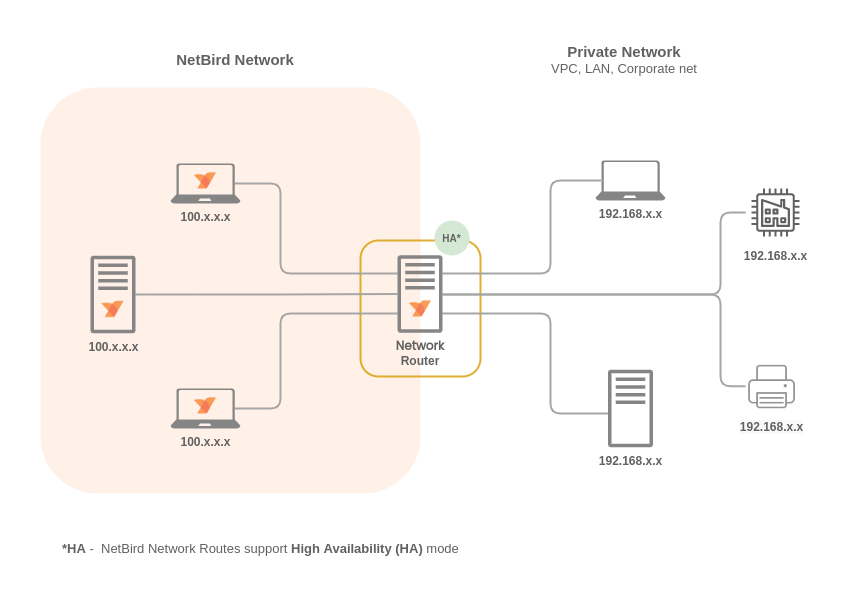
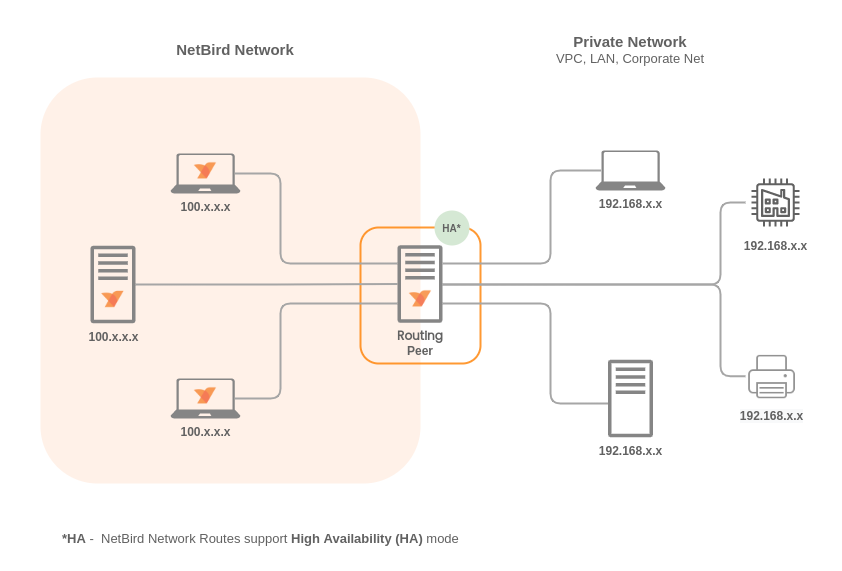
Routes without masquerade and resizes

diff --git a/docs/how-to-guides/routes.md b/docs/how-to-guides/routes.md
@@ -12,14 +12,14 @@ NetBird provides fast and reliable end-to-end encryption between peers in your n
 In these cases, you can configure network routes assigning routing peers to connect existing infrastructure. Routing peers will forward packets between your NetBird peers and your other networks; they can masquerade traffic going to your data centers or embedded devices, reducing the need for external route configuration and agent installation.
 
 <p align="center">
-    <img src="/docs/img/how-to-guides/netbird-network-routes.png" alt="high-level-dia" width="800"  />
+    <img src="/docs/img/how-to-guides/netbird-network-routes.png" alt="high-level-dia"  />
 </p>
 
 ## Concepts
 ### Network routes
 A network route describes the network you want to connect with your NetBird peers. It has an identifier, a network range, a routing peer, and some parameters available for managing priority and masquerading.
 :::info
-Network routes is available for NetBird v0.9.0 or later.
+Network routes is available for NetBird [v0.9.0](https://github.com/netbirdio/netbird/releases) or later.
 :::
 ### Network identifiers and ranges
 Network identifiers are names for each network you want to route traffic from your peers, and ranges are IP ranges declared in CIDR notation which refers to an external network. The combination of identifiers and these ranges makes a single network.
@@ -39,11 +39,12 @@ If you don't enable this option, you must configure a route to your NetBird netw
 Metric defines prioritization when choosing the main routing peer in a high availability network. Lower metrics have higher priority.
 
 ## Managing network routes
-The configuration and management of network routes are done through the management dashboard. There is no need to run any configuration commands on your peers.
+A network route describes a network you want to connect with your NetBird peers. It has an identifier, a network range, a routing peer, and some parameters available for managing priority and masquerading.
+
 ### Creating a network route
 After accessing the `Network routes` tab, you can click on the `Add Route` button to create a new route. That will open a route configuration screen where you can add the information about the network you want to route:
 <p align="center">
-    <img src="/docs/img/how-to-guides/netbird-network-routes-add-button.png" alt="high-level-dia" width="600" style={{boxShadow: '0 4px 8px 0 rgba(0, 0, 0, 0.2), 0 6px 20px 0 rgba(0, 0, 0, 0.19)'}} />
+    <img src="/docs/img/how-to-guides/netbird-network-routes-add-button.png" alt="high-level-dia" style={{boxShadow: '0 4px 8px 0 rgba(0, 0, 0, 0.2), 0 6px 20px 0 rgba(0, 0, 0, 0.19)'}} />
 </p>
 
 Now you can enter the details for your route:
@@ -60,7 +61,7 @@ In the example above, we are creating a route with the following information:
 
 Once you are done filling in the route information, you can click on the `create` button to save your new route.
 <p align="center">
-    <img src="/docs/img/how-to-guides/netbird-network-routes-saved-new.png" alt="high-level-dia" width="600" style={{boxShadow: '0 4px 8px 0 rgba(0, 0, 0, 0.2), 0 6px 20px 0 rgba(0, 0, 0, 0.19)'}} />
+    <img src="/docs/img/how-to-guides/netbird-network-routes-saved-new.png" alt="high-level-dia" style={{boxShadow: '0 4px 8px 0 rgba(0, 0, 0, 0.2), 0 6px 20px 0 rgba(0, 0, 0, 0.19)'}} />
 </p>
 Done! Now every peer connected to your routing peer will be able to send traffic to your external network.
 
@@ -81,9 +82,14 @@ So if we would like to enable high availability for the route created in the pre
 This way, nodes connected to both peer `aws-nb-europe-router-az-a` and peer `aws-nb-europe-router-az-b` would have a highly available connection with the network `172.31.0.0/16`.
 
 <p align="center">
-    <img src="/docs/img/how-to-guides/netbird-network-routes-saved-new-ha.png" alt="high-level-dia" width="600" style={{boxShadow: '0 4px 8px 0 rgba(0, 0, 0, 0.2), 0 6px 20px 0 rgba(0, 0, 0, 0.19)'}} />
+    <img src="/docs/img/how-to-guides/netbird-network-routes-saved-new-ha.png" alt="high-level-dia" style={{boxShadow: '0 4px 8px 0 rgba(0, 0, 0, 0.2), 0 6px 20px 0 rgba(0, 0, 0, 0.19)'}} />
 </p>
 
 :::info
 Currently, there is no limitation in the number of routes that form a highly available route. Each connected peer will pick one routing peer to use as the router for a network; this decision is based on metric prioritization and connection attributes like direct or relayed connections.
 :::
+
+### Routes without masquerade
+If you want more transparency and can manage your external network routers, you may choose to disable masquerade for your network routes. In this case, the routing peer won't hide any NetBird peer  IP and will forward the packets to the target network transparently.
+
+That will require a routing configuration on your external network router pointing your NetBird network back to your routing peer. This way, devices that don't have the agent installed can communicate with your NetBird peers.
